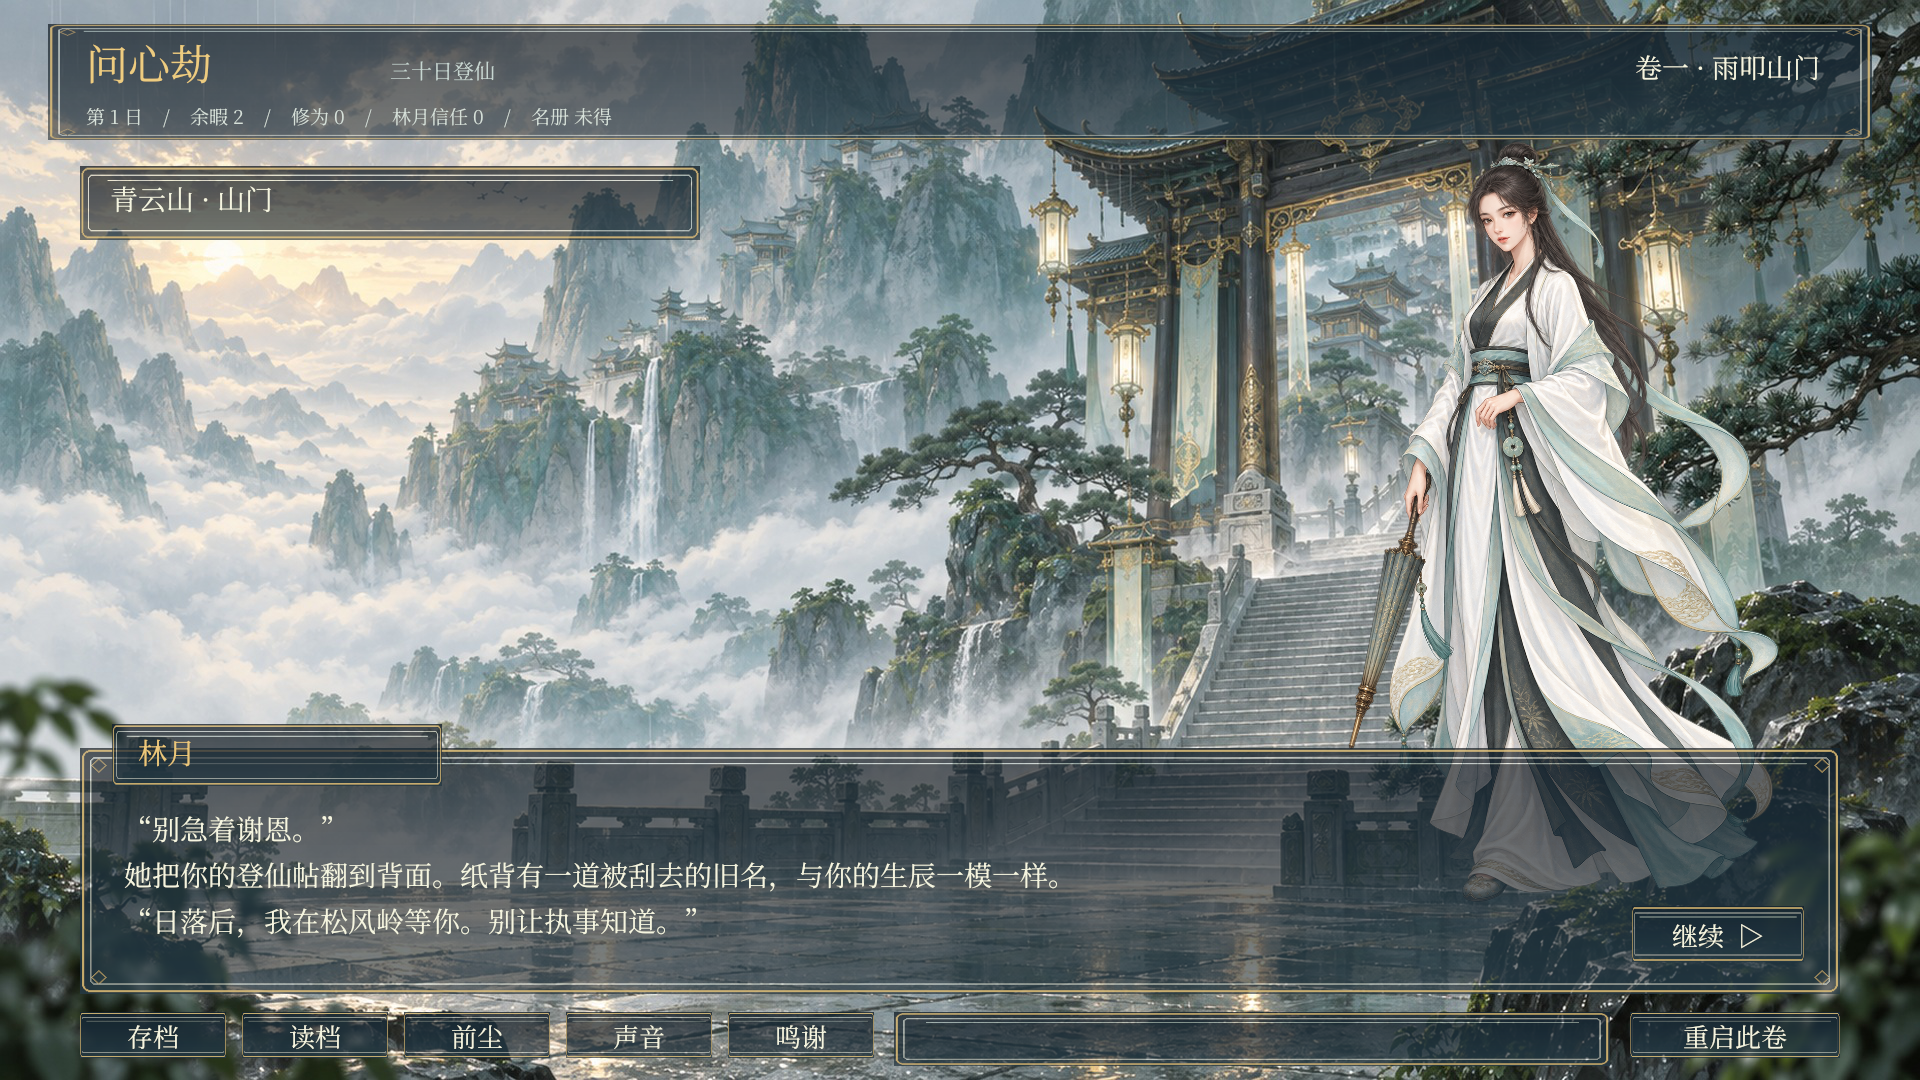
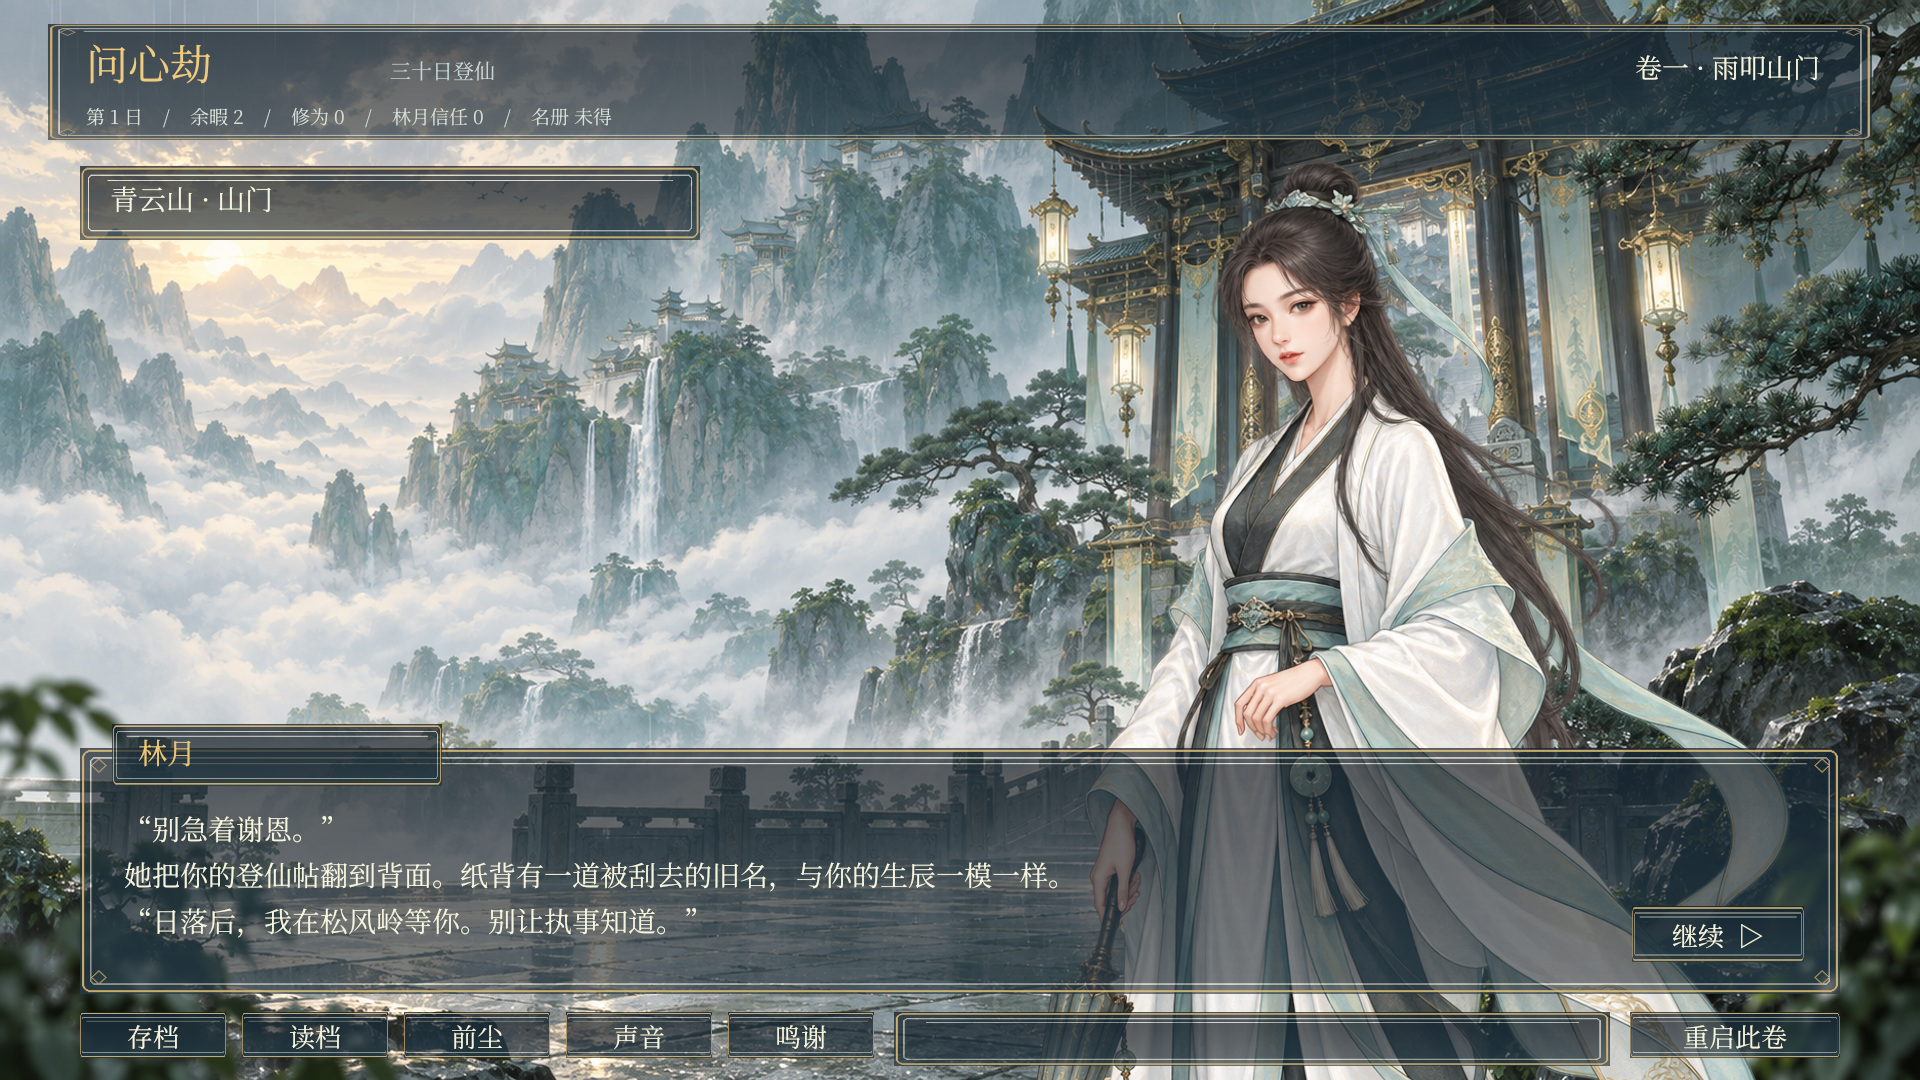
feat: frame dialogue characters as half-body portraits

Changed region(s): [[0.5312, 0.1222, 0.9375, 1.0]]

diff --git a/Assets/_WenXinJie/Scripts/Presentation/StoryMediaCatalog.cs b/Assets/_WenXinJie/Scripts/Presentation/StoryMediaCatalog.cs
@@ -14,7 +14,7 @@ namespace WenXinJie.Presentation
         [SerializeField] private AudioClip _music;
         [SerializeField] private AudioClip _rain;
         [SerializeField] private MediaImage[] _backgrounds;
-        [SerializeField] private MediaImage[] _portraits;
+        [SerializeField] private PortraitMedia[] _portraits;
 
         public Font Font => _font;
         public Texture2D Panel => _panel;
@@ -27,9 +27,9 @@ namespace WenXinJie.Presentation
             return Find(_backgrounds, id);
         }
 
-        public Texture2D Portrait(string id)
+        public PortraitMedia Portrait(string id)
         {
-            return string.IsNullOrEmpty(id) ? null : Find(_portraits, id);
+            return string.IsNullOrEmpty(id) ? null : FindPortrait(id);
         }
 
         public void Validate(StoryGraph graph)
@@ -40,7 +40,7 @@ namespace WenXinJie.Presentation
             }
 
             ValidateImages(_backgrounds);
-            ValidateImages(_portraits);
+            ValidatePortraits();
             foreach (StoryNode node in graph.Nodes)
             {
                 Background(node.background);
@@ -77,6 +77,37 @@ namespace WenXinJie.Presentation
 
             throw new InvalidOperationException("Unregistered story image: " + id);
         }
+
+        private PortraitMedia FindPortrait(string id)
+        {
+            foreach (PortraitMedia portrait in _portraits)
+            {
+                if (portrait.Id == id && portrait.Texture != null)
+                {
+                    return portrait;
+                }
+            }
+
+            throw new InvalidOperationException("Unregistered story portrait: " + id);
+        }
+
+        private void ValidatePortraits()
+        {
+            if (_portraits == null)
+            {
+                throw new InvalidOperationException("Missing portrait entries.");
+            }
+
+            var ids = new HashSet<string>();
+            foreach (PortraitMedia portrait in _portraits)
+            {
+                if (portrait == null || string.IsNullOrWhiteSpace(portrait.Id) || !ids.Add(portrait.Id)
+                    || portrait.Texture == null || !portrait.HasValidFraming)
+                {
+                    throw new InvalidOperationException("Duplicate, missing, or invalid portrait entry.");
+                }
+            }
+        }
     }
 
     [Serializable]
@@ -84,5 +115,23 @@ namespace WenXinJie.Presentation
     {
         public string id;
         public Texture2D texture;
+    }
+
+    [Serializable]
+    public sealed class PortraitMedia
+    {
+        [SerializeField] private string _id;
+        [SerializeField] private Texture2D _texture;
+        [SerializeField] private float _width = 1050f;
+        [SerializeField] private float _top = 140f;
+        [SerializeField] private float _right = 30f;
+
+        public string Id => _id;
+        public Texture2D Texture => _texture;
+        public float Width => _width;
+        public float Top => _top;
+        public float Right => _right;
+
+        public bool HasValidFraming => _width > 0f && _top >= 0f && _right >= 0f;
     }
 }

diff --git a/Assets/_WenXinJie/Scripts/Presentation/StoryView.cs b/Assets/_WenXinJie/Scripts/Presentation/StoryView.cs
@@ -55,8 +55,10 @@ namespace WenXinJie.Presentation
             _status.color = new Color(0.84f, 0.88f, 0.85f);
             _ui.Picture(frame, "LocationPanel", media.Choice, 80f, 166f, 620f, 74f);
             _location = _ui.Label(frame, "Location", string.Empty, 110f, 178f, 560f, 50f, 28);
-            _portrait = _ui.Picture(frame, "Portrait", null, 1280f, 132f, 520f, 780f);
+            _portrait = _ui.Picture(frame, "Portrait", null, 0f, 0f, 1f, 1f);
             _portraitGroup = _portrait.gameObject.AddComponent<CanvasGroup>();
+            _portrait.transform.SetAsFirstSibling();
+            _portrait.gameObject.SetActive(false);
 
             for (int index = 0; index < _choices.Length; index++)
             {
@@ -183,9 +185,10 @@ namespace WenXinJie.Presentation
             _transition = null;
         }
 
-        private void ChangePortrait(Texture2D texture)
+        private void ChangePortrait(PortraitMedia portrait)
         {
-            if (_portrait.texture == texture)
+            Texture2D texture = portrait?.Texture;
+            if (_portrait.texture == texture && _portrait.gameObject.activeSelf == (texture != null))
             {
                 return;
             }
@@ -196,16 +199,19 @@ namespace WenXinJie.Presentation
             }
 
             _portrait.texture = texture;
-            _portrait.gameObject.SetActive(texture != null);
             if (texture == null)
             {
+                _portrait.gameObject.SetActive(false);
                 _portraitTransition = null;
                 return;
             }
 
-            const float width = 520f;
-            float height = width * texture.height / texture.width;
-            _portrait.rectTransform.sizeDelta = new Vector2(width, height);
+            float height = portrait.Width * texture.height / texture.width;
+            float x = 1920f - portrait.Right - portrait.Width;
+            _portrait.rectTransform.anchoredPosition = new Vector2(x, -portrait.Top);
+            _portrait.rectTransform.sizeDelta = new Vector2(portrait.Width, height);
+            _portrait.uvRect = new Rect(0f, 0f, 1f, 1f);
+            _portrait.gameObject.SetActive(true);
             _portraitGroup.alpha = 0f;
             _portraitTransition = StartCoroutine(FadePortrait());
         }

diff --git a/Assets/_WenXinJie/Editor/CampaignSetup.cs b/Assets/_WenXinJie/Editor/CampaignSetup.cs
@@ -53,7 +53,8 @@ namespace WenXinJie.Editor
                     "Art/Backgrounds/CloudGate_Premium_1080.jpg", "Art/Backgrounds/PineRidge_Premium_1080.jpg",
                     "Art/Backgrounds/PineRidge_Premium_Night_1080.jpg"
                 });
-            Images(media.FindProperty("_portraits"), new[] { "linYue" }, new[] { "Art/Generated/LinYue_Premium_Cutout.png" });
+            Portraits(media.FindProperty("_portraits"), new[] { "linYue" },
+                new[] { "Art/Generated/LinYue_Premium_Cutout.png" });
             media.ApplyModifiedPropertiesWithoutUndo();
             AssetDatabase.SaveAssets();
             catalog = AssetDatabase.LoadAssetAtPath<StoryMediaCatalog>(catalogPath);
@@ -123,6 +124,21 @@ namespace WenXinJie.Editor
                 SerializedProperty entry = array.GetArrayElementAtIndex(index);
                 entry.FindPropertyRelative("id").stringValue = ids[index];
                 entry.FindPropertyRelative("texture").objectReferenceValue = AssetDatabase.LoadAssetAtPath<Texture2D>(Root + paths[index]);
+            }
+        }
+
+        private static void Portraits(SerializedProperty array, string[] ids, string[] paths)
+        {
+            array.arraySize = ids.Length;
+            for (int index = 0; index < ids.Length; index++)
+            {
+                SerializedProperty entry = array.GetArrayElementAtIndex(index);
+                entry.FindPropertyRelative("_id").stringValue = ids[index];
+                entry.FindPropertyRelative("_texture").objectReferenceValue =
+                    AssetDatabase.LoadAssetAtPath<Texture2D>(Root + paths[index]);
+                entry.FindPropertyRelative("_width").floatValue = 1050f;
+                entry.FindPropertyRelative("_top").floatValue = 140f;
+                entry.FindPropertyRelative("_right").floatValue = 30f;
             }
         }
     }

diff --git a/Assets/_WenXinJie/Editor/CampaignPlayModeChecks.cs b/Assets/_WenXinJie/Editor/CampaignPlayModeChecks.cs
@@ -37,6 +37,7 @@ namespace WenXinJie.Editor
                 application.Advance();
                 Require(application.Session.Current.id == "c01.warning", "Opening advance failed.");
                 VerifyPicture("Portrait", "LinYue_Premium", true);
+                VerifyPortraitFraming();
                 reader.Complete();
                 await Capture("Docs/Validation/campaign-lin-yue-1080.png");
                 application.Advance();
@@ -134,6 +135,21 @@ namespace WenXinJie.Editor
                 RawImage image = transform.GetComponent<RawImage>();
                 Require(image.texture != null && image.texture.name.Contains(expectedTexture), "Wrong picture on " + name);
             }
+        }
+
+        private static void VerifyPortraitFraming()
+        {
+            Transform transform = FindIncludingInactive("Portrait");
+            var image = transform.GetComponent<RawImage>();
+            RectTransform rect = image.rectTransform;
+            Require(image.uvRect == new Rect(0f, 0f, 1f, 1f),
+                "Portrait should display the complete source image.");
+            Require(rect.sizeDelta.x >= 1000f && rect.sizeDelta.y >= 1500f,
+                "Portrait is too small for the dialogue composition.");
+            Require(Mathf.Abs(-rect.anchoredPosition.y - 140f) < 1f,
+                "Portrait head is not aligned below the header.");
+            Require(-rect.anchoredPosition.y + rect.sizeDelta.y > 1500f,
+                "Portrait should extend beyond the bottom edge for a half-body composition.");
         }
 
         private static Transform FindIncludingInactive(string name)

diff --git a/Assets/_WenXinJie/Scripts/Presentation/StoryViewState.cs b/Assets/_WenXinJie/Scripts/Presentation/StoryViewState.cs
@@ -1,5 +1,4 @@
 using System;
-using UnityEngine;
 
 namespace WenXinJie.Presentation
 {
@@ -13,7 +12,7 @@ namespace WenXinJie.Presentation
         public string NextLabel;
         public bool Terminal;
         public Texture2D Background;
-        public Texture2D Portrait;
+        public PortraitMedia Portrait;
         public ChoiceViewState[] Choices = Array.Empty<ChoiceViewState>();
     }
 

diff --git a/Docs/ART_DIRECTION.md b/Docs/ART_DIRECTION.md
@@ -6,6 +6,8 @@
 
 当前已落地原创雨晨仙门、松风岭、松岭夜景和林月透明立绘。后续角色必须沿用同一头身、光源、材质精度和配色纪律；场景需要给立绘、选项和对话框预留安静区域。
 
+常规对话保留完整透明立绘，不裁切源图；运行时将人物大幅放大，头部置于顶栏下方，腰腿部分延伸到屏幕外，由画面底边自然截成 AVG 半身站位。媒体目录为每名角色保存独立尺寸与站位参数。
+
 ## 本轮状态
 
 CC0 古画衍生图已降级为早期验证和章节过渡候选。正式主场景改用项目专用生成图，林月透明立绘已经接入；表情差分和另外两名主角仍缺失。
